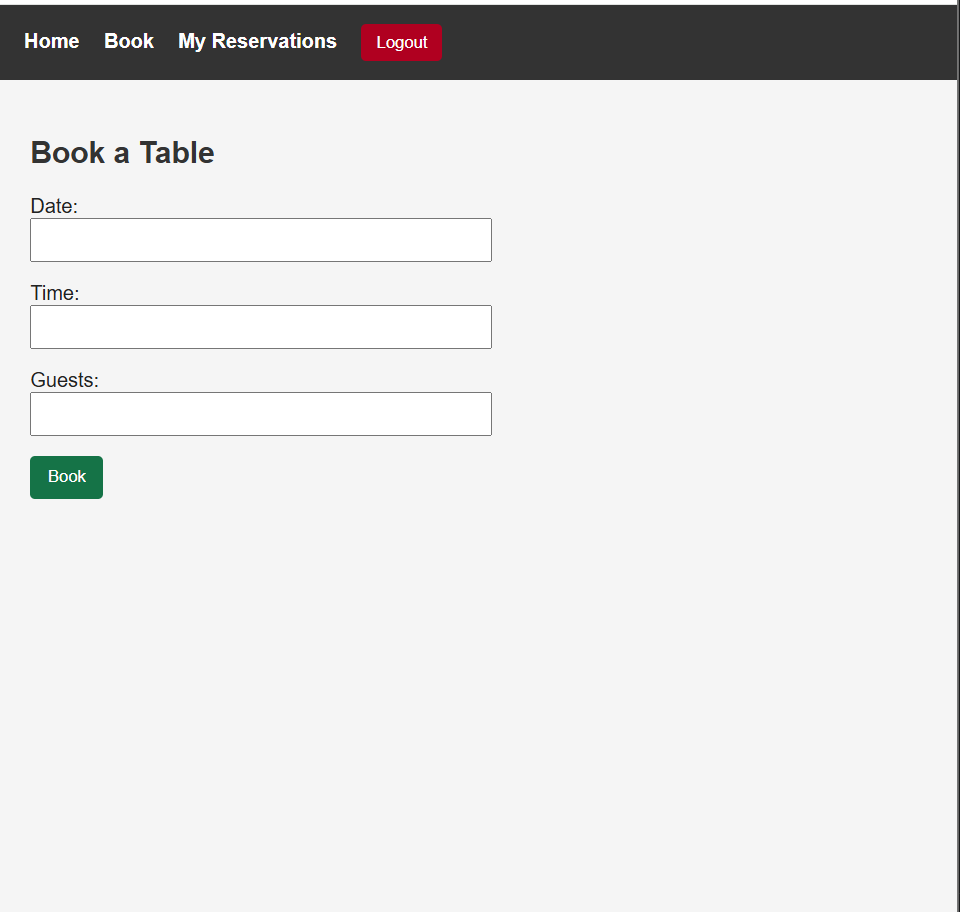
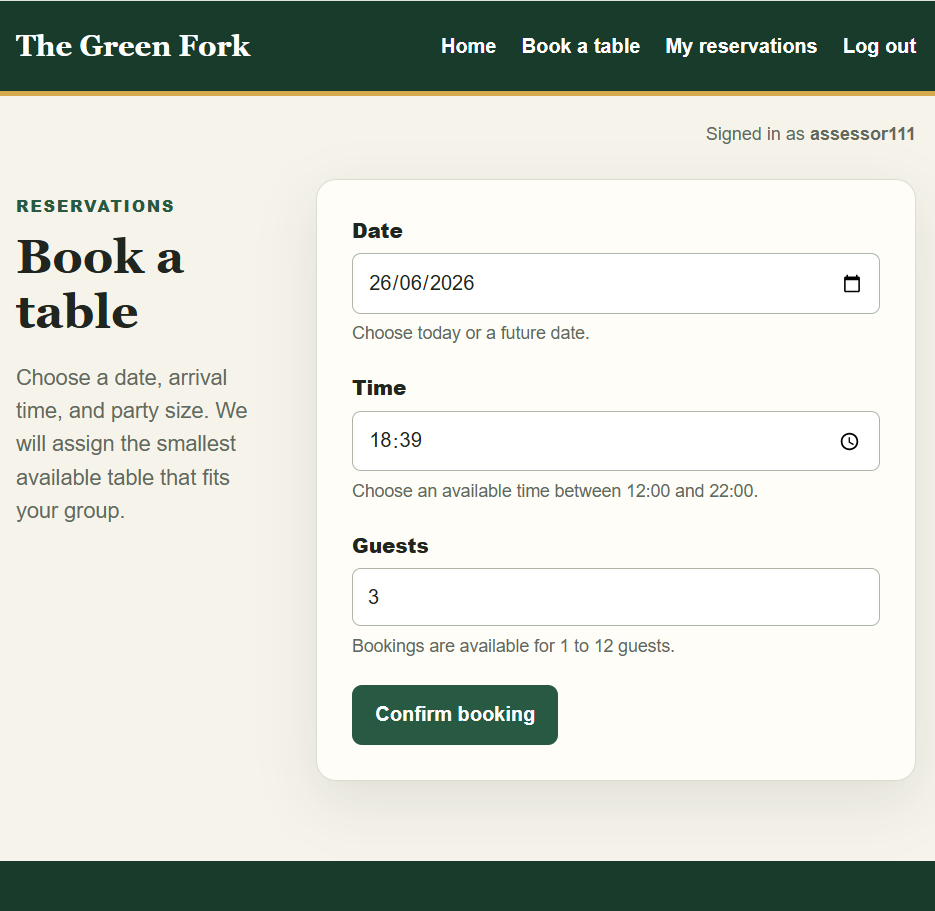
Update README with assessor credentials and resubmission documentation

diff --git a/README.md b/README.md
@@ -4,6 +4,15 @@
 
 The Green Fork is a full-stack Django application for reserving restaurant tables. Registered users can create, view, edit, cancel, and permanently delete their own reservations. The application assigns the smallest suitable available table, prevents confirmed double bookings, and keeps each user's data private.
 
+## Assessor Testing Credentials
+
+To test the full reservation functionality, please use the following account:
+
+Username: assessor_admin
+Password: Assessor123!
+
+This account has access to all booking, editing, cancellation, and deletion features required for assessment.
+
 ## Project goals
 
 - Make booking understandable without knowing database date or time formats.
